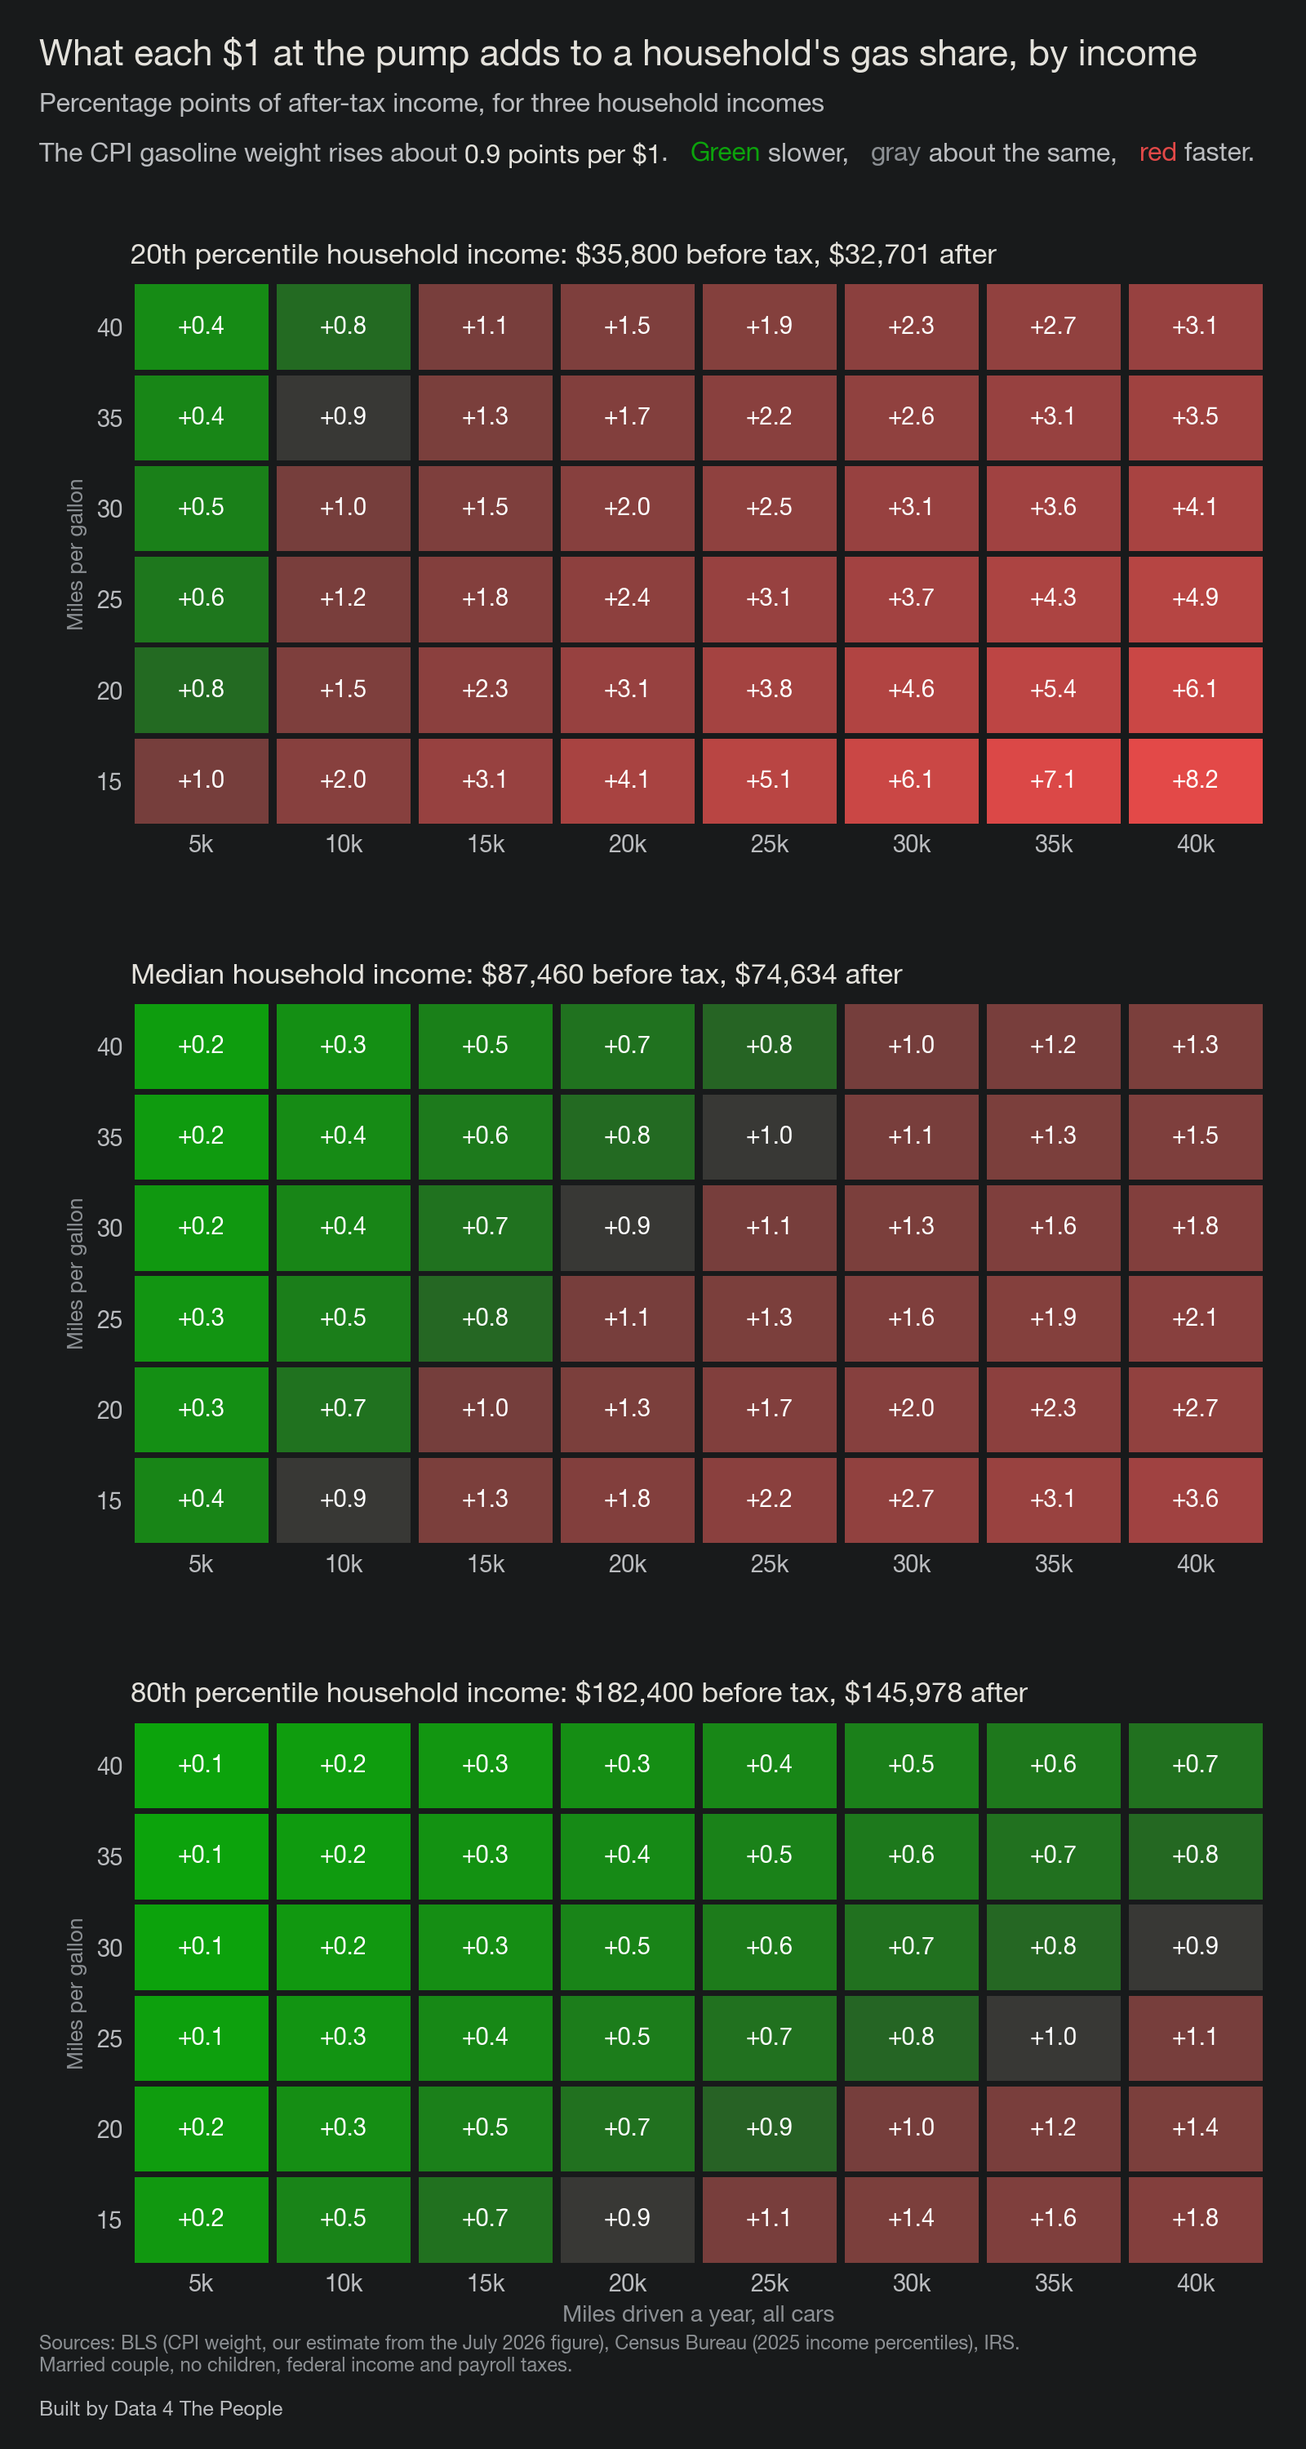
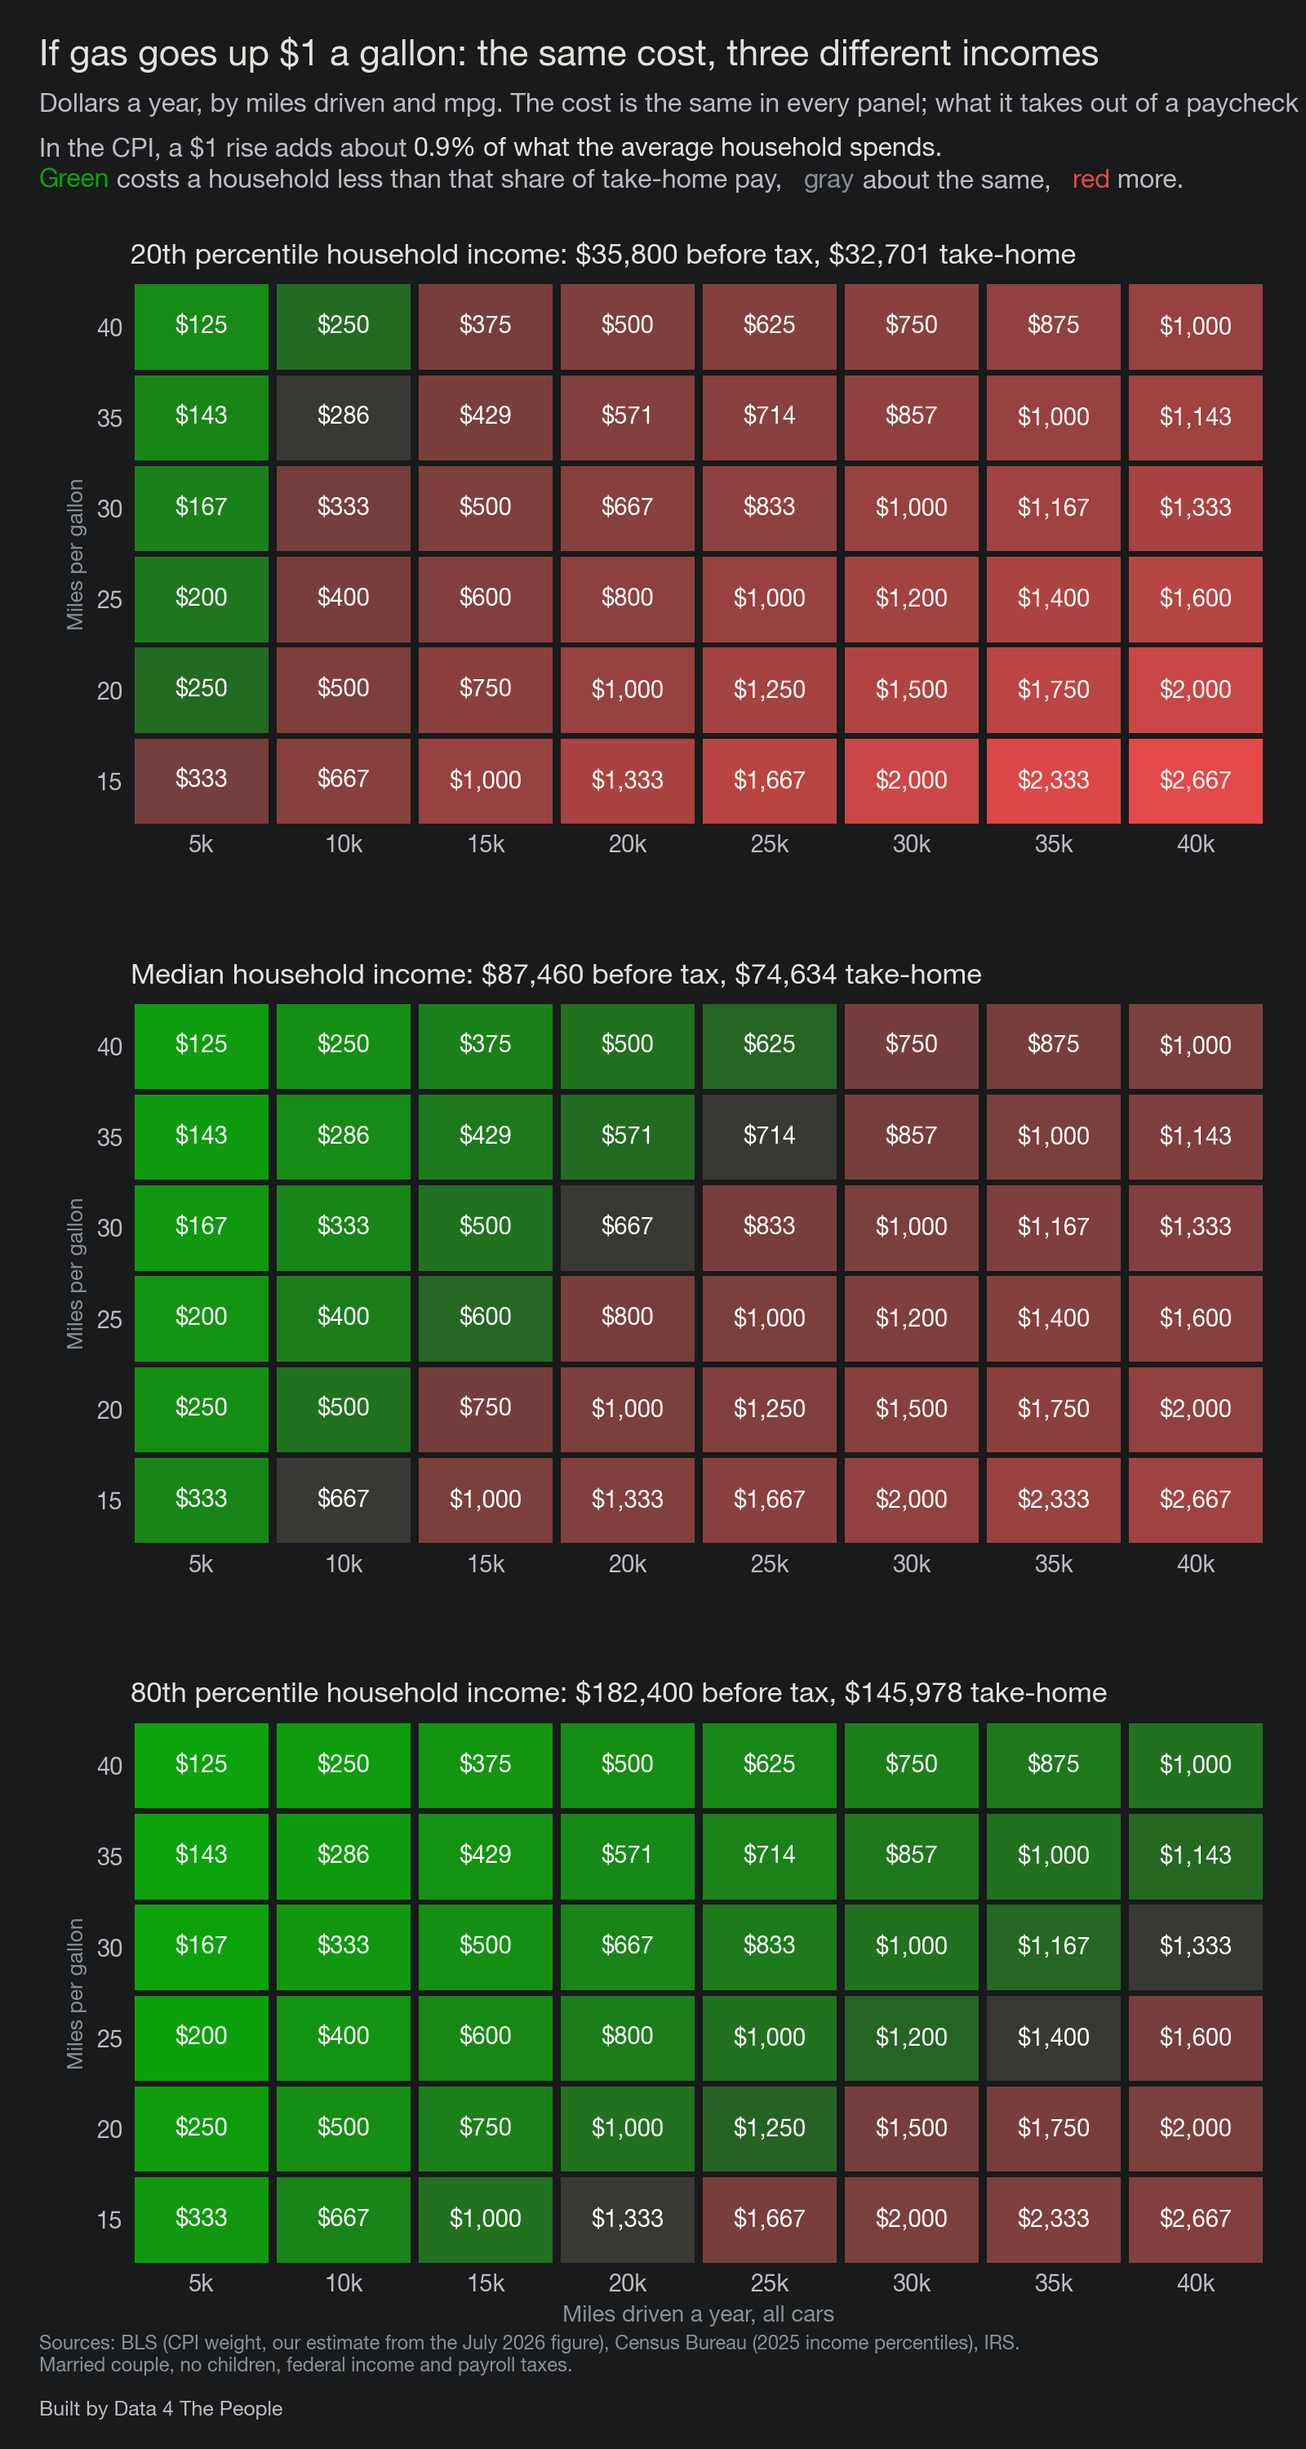
gasoline-cost: matrix in dollars a year, plain-language comparison to the CPI

diff --git a/dist/embed.html b/dist/embed.html
@@ -418,10 +418,11 @@ function drawMatrix(){
   var NEU = hexRgb(cst.getPropertyValue("--mNeu")), GOOD = hexRgb(cst.getPropertyValue("--mGood")), BAD = hexRgb(cst.getPropertyValue("--mBad"));
   var top = 100 * 40000 / 15 / 35000;      /* one fixed scale, so colors compare across incomes */
   var mi = nearestIdx(MX_MILES, h.miles), gi = nearestIdx(MX_MPG, h.mpg);
-  var html = "<h2>What each $1 a gallon adds, at this income</h2>" +
-    "<p class='intro'>Points of after-tax income added by each $1 rise, for any mix of miles and mpg, at " + esc(h.name.toLowerCase() === "your household" ? "your" : "the " + h.name.toLowerCase() + "'s") +
-    " income (" + money(h.at) + " after federal taxes). The CPI gasoline weight rises about <b>" + cs.toFixed(1) + " points</b> per $1.</p>" +
-    "<div class='legend'><span><b style='color:var(--mGood)'>Green</b> slower than the CPI</span><span><b style='color:var(--muted)'>Gray</b> about the same</span><span><b style='color:var(--mBad)'>Red</b> faster</span><span><b>Outlined</b>: closest to this household</span></div>" +
+  var whose = h.name.toLowerCase() === "your household" ? "your" : "the " + h.name.toLowerCase() + "'s";
+  var html = "<h2>If gas goes up $1 a gallon</h2>" +
+    "<p class='intro'>What a $1 rise costs a year, for any mix of miles and mpg, next to " + esc(whose) + " take-home pay of " + money(h.at) +
+    ". In the CPI, a $1 rise adds about <b>" + cs.toFixed(1) + "% of what the average household spends</b>. Colors show whether it costs this household more or less than that share.</p>" +
+    "<div class='legend'><span><b style='color:var(--mGood)'>Green</b> under " + cs.toFixed(1) + "% of take-home pay</span><span><b style='color:var(--muted)'>Gray</b> about " + cs.toFixed(1) + "%</span><span><b style='color:var(--mBad)'>Red</b> over " + cs.toFixed(1) + "%</span><span><b>Outlined</b>: closest to this household</span></div>" +
     "<div class='mx' role='table' aria-label='Points of after-tax income added by each $1 a gallon'><div class='h'>mpg</div>";
   MX_MILES.forEach(function(m){ html += "<div class='h'>" + (m / 1000) + "k</div>"; });
   MX_MPG.forEach(function(g, i){
@@ -432,9 +433,12 @@ function drawMatrix(){
       else if (v < cs) c = mixRgb(NEU, GOOD, 0.35 + 0.65 * Math.min(1, (cs - v) / (cs - 0.1)));
       else c = mixRgb(NEU, BAD, 0.35 + 0.65 * Math.min(1, (v - cs) / (top - cs)));
       var ink = lumRgb(c) > 0.28 ? "#0b0b0b" : "#ffffff";
-      var word = Math.abs(v - cs) <= MX_BAND ? "about the same as" : v < cs ? "slower than" : "faster than";
+      var word = Math.abs(v - cs) <= MX_BAND ? "about the same as" : v < cs ? "less than" : "more than";
+      var gal = m / g;
       html += "<div class='c" + (i === gi && j === mi ? " me" : "") + "' style='background:rgb(" + c.join(",") + ");color:" + ink + "' data-tip='" +
-        esc(m.toLocaleString("en-US") + " miles at " + g + " mpg: each $1 a gallon adds " + v.toFixed(2) + " points of after-tax income, " + word + " the CPI weight (" + cs.toFixed(2) + ")") + "'>+" + v.toFixed(1) + "</div>";
+        esc(m.toLocaleString("en-US") + " miles a year at " + g + " mpg is " + Math.round(gal).toLocaleString("en-US") + " gallons of gas. If the price goes up $1 a gallon, that costs " +
+            money(gal) + " more a year, or " + v.toFixed(1) + "% of take-home pay. That is " + word + " the " + cs.toFixed(1) + "% the CPI puts on the average household.") +
+        "'>" + money(gal) + "</div>";
     });
   });
   html += "</div><div class='axisl'>Miles driven a year, all cars</div>";

diff --git a/dist/index.html b/dist/index.html
@@ -418,10 +418,11 @@ function drawMatrix(){
   var NEU = hexRgb(cst.getPropertyValue("--mNeu")), GOOD = hexRgb(cst.getPropertyValue("--mGood")), BAD = hexRgb(cst.getPropertyValue("--mBad"));
   var top = 100 * 40000 / 15 / 35000;      /* one fixed scale, so colors compare across incomes */
   var mi = nearestIdx(MX_MILES, h.miles), gi = nearestIdx(MX_MPG, h.mpg);
-  var html = "<h2>What each $1 a gallon adds, at this income</h2>" +
-    "<p class='intro'>Points of after-tax income added by each $1 rise, for any mix of miles and mpg, at " + esc(h.name.toLowerCase() === "your household" ? "your" : "the " + h.name.toLowerCase() + "'s") +
-    " income (" + money(h.at) + " after federal taxes). The CPI gasoline weight rises about <b>" + cs.toFixed(1) + " points</b> per $1.</p>" +
-    "<div class='legend'><span><b style='color:var(--mGood)'>Green</b> slower than the CPI</span><span><b style='color:var(--muted)'>Gray</b> about the same</span><span><b style='color:var(--mBad)'>Red</b> faster</span><span><b>Outlined</b>: closest to this household</span></div>" +
+  var whose = h.name.toLowerCase() === "your household" ? "your" : "the " + h.name.toLowerCase() + "'s";
+  var html = "<h2>If gas goes up $1 a gallon</h2>" +
+    "<p class='intro'>What a $1 rise costs a year, for any mix of miles and mpg, next to " + esc(whose) + " take-home pay of " + money(h.at) +
+    ". In the CPI, a $1 rise adds about <b>" + cs.toFixed(1) + "% of what the average household spends</b>. Colors show whether it costs this household more or less than that share.</p>" +
+    "<div class='legend'><span><b style='color:var(--mGood)'>Green</b> under " + cs.toFixed(1) + "% of take-home pay</span><span><b style='color:var(--muted)'>Gray</b> about " + cs.toFixed(1) + "%</span><span><b style='color:var(--mBad)'>Red</b> over " + cs.toFixed(1) + "%</span><span><b>Outlined</b>: closest to this household</span></div>" +
     "<div class='mx' role='table' aria-label='Points of after-tax income added by each $1 a gallon'><div class='h'>mpg</div>";
   MX_MILES.forEach(function(m){ html += "<div class='h'>" + (m / 1000) + "k</div>"; });
   MX_MPG.forEach(function(g, i){
@@ -432,9 +433,12 @@ function drawMatrix(){
       else if (v < cs) c = mixRgb(NEU, GOOD, 0.35 + 0.65 * Math.min(1, (cs - v) / (cs - 0.1)));
       else c = mixRgb(NEU, BAD, 0.35 + 0.65 * Math.min(1, (v - cs) / (top - cs)));
       var ink = lumRgb(c) > 0.28 ? "#0b0b0b" : "#ffffff";
-      var word = Math.abs(v - cs) <= MX_BAND ? "about the same as" : v < cs ? "slower than" : "faster than";
+      var word = Math.abs(v - cs) <= MX_BAND ? "about the same as" : v < cs ? "less than" : "more than";
+      var gal = m / g;
       html += "<div class='c" + (i === gi && j === mi ? " me" : "") + "' style='background:rgb(" + c.join(",") + ");color:" + ink + "' data-tip='" +
-        esc(m.toLocaleString("en-US") + " miles at " + g + " mpg: each $1 a gallon adds " + v.toFixed(2) + " points of after-tax income, " + word + " the CPI weight (" + cs.toFixed(2) + ")") + "'>+" + v.toFixed(1) + "</div>";
+        esc(m.toLocaleString("en-US") + " miles a year at " + g + " mpg is " + Math.round(gal).toLocaleString("en-US") + " gallons of gas. If the price goes up $1 a gallon, that costs " +
+            money(gal) + " more a year, or " + v.toFixed(1) + "% of take-home pay. That is " + word + " the " + cs.toFixed(1) + "% the CPI puts on the average household.") +
+        "'>" + money(gal) + "</div>";
     });
   });
   html += "</div><div class='axisl'>Miles driven a year, all cars</div>";

diff --git a/src/template.html b/src/template.html
@@ -418,10 +418,11 @@ function drawMatrix(){
   var NEU = hexRgb(cst.getPropertyValue("--mNeu")), GOOD = hexRgb(cst.getPropertyValue("--mGood")), BAD = hexRgb(cst.getPropertyValue("--mBad"));
   var top = 100 * 40000 / 15 / 35000;      /* one fixed scale, so colors compare across incomes */
   var mi = nearestIdx(MX_MILES, h.miles), gi = nearestIdx(MX_MPG, h.mpg);
-  var html = "<h2>What each $1 a gallon adds, at this income</h2>" +
-    "<p class='intro'>Points of after-tax income added by each $1 rise, for any mix of miles and mpg, at " + esc(h.name.toLowerCase() === "your household" ? "your" : "the " + h.name.toLowerCase() + "'s") +
-    " income (" + money(h.at) + " after federal taxes). The CPI gasoline weight rises about <b>" + cs.toFixed(1) + " points</b> per $1.</p>" +
-    "<div class='legend'><span><b style='color:var(--mGood)'>Green</b> slower than the CPI</span><span><b style='color:var(--muted)'>Gray</b> about the same</span><span><b style='color:var(--mBad)'>Red</b> faster</span><span><b>Outlined</b>: closest to this household</span></div>" +
+  var whose = h.name.toLowerCase() === "your household" ? "your" : "the " + h.name.toLowerCase() + "'s";
+  var html = "<h2>If gas goes up $1 a gallon</h2>" +
+    "<p class='intro'>What a $1 rise costs a year, for any mix of miles and mpg, next to " + esc(whose) + " take-home pay of " + money(h.at) +
+    ". In the CPI, a $1 rise adds about <b>" + cs.toFixed(1) + "% of what the average household spends</b>. Colors show whether it costs this household more or less than that share.</p>" +
+    "<div class='legend'><span><b style='color:var(--mGood)'>Green</b> under " + cs.toFixed(1) + "% of take-home pay</span><span><b style='color:var(--muted)'>Gray</b> about " + cs.toFixed(1) + "%</span><span><b style='color:var(--mBad)'>Red</b> over " + cs.toFixed(1) + "%</span><span><b>Outlined</b>: closest to this household</span></div>" +
     "<div class='mx' role='table' aria-label='Points of after-tax income added by each $1 a gallon'><div class='h'>mpg</div>";
   MX_MILES.forEach(function(m){ html += "<div class='h'>" + (m / 1000) + "k</div>"; });
   MX_MPG.forEach(function(g, i){
@@ -432,9 +433,12 @@ function drawMatrix(){
       else if (v < cs) c = mixRgb(NEU, GOOD, 0.35 + 0.65 * Math.min(1, (cs - v) / (cs - 0.1)));
       else c = mixRgb(NEU, BAD, 0.35 + 0.65 * Math.min(1, (v - cs) / (top - cs)));
       var ink = lumRgb(c) > 0.28 ? "#0b0b0b" : "#ffffff";
-      var word = Math.abs(v - cs) <= MX_BAND ? "about the same as" : v < cs ? "slower than" : "faster than";
+      var word = Math.abs(v - cs) <= MX_BAND ? "about the same as" : v < cs ? "less than" : "more than";
+      var gal = m / g;
       html += "<div class='c" + (i === gi && j === mi ? " me" : "") + "' style='background:rgb(" + c.join(",") + ");color:" + ink + "' data-tip='" +
-        esc(m.toLocaleString("en-US") + " miles at " + g + " mpg: each $1 a gallon adds " + v.toFixed(2) + " points of after-tax income, " + word + " the CPI weight (" + cs.toFixed(2) + ")") + "'>+" + v.toFixed(1) + "</div>";
+        esc(m.toLocaleString("en-US") + " miles a year at " + g + " mpg is " + Math.round(gal).toLocaleString("en-US") + " gallons of gas. If the price goes up $1 a gallon, that costs " +
+            money(gal) + " more a year, or " + v.toFixed(1) + "% of take-home pay. That is " + word + " the " + cs.toFixed(1) + "% the CPI puts on the average household.") +
+        "'>" + money(gal) + "</div>";
     });
   });
   html += "</div><div class='axisl'>Miles driven a year, all cars</div>";

diff --git a/src/charts.py b/src/charts.py
@@ -165,7 +165,7 @@ def draw_matrix(ax, inc, cs, fs=11):
             v = 100 * mi / g / inc
             col = cell_color(v, cs, inc)
             ax.add_patch(plt.Rectangle((j + 0.03, i + 0.03), 0.94, 0.94, color=col, lw=0))
-            ax.text(j + 0.5, i + 0.5, f'+{v:.1f}', ha='center', va='center', fontsize=fs, fontweight='bold',
+            ax.text(j + 0.5, i + 0.5, f'\\${mi / g:,.0f}', ha='center', va='center', fontsize=fs, fontweight='bold',
                     color='#0b0b0b' if lum(col) > 0.28 else '#ffffff')
     ax.set_xlim(0, len(MILES)); ax.set_ylim(len(MPGS), 0)
     ax.set_xticks([j + 0.5 for j in range(len(MILES))], [f'{mi // 1000}k' for mi in MILES])
@@ -173,10 +173,11 @@ def draw_matrix(ax, inc, cs, fs=11):
     ax.tick_params(axis='both', labelcolor=INK2, labelsize=10.5)
 
 
-def legend_line(f, y, cs):
-    colored_line(f, 0.03, y, [('The CPI gasoline weight rises about ', INK2, False), (f'{cs:.1f} points per $1', INK, True),
-                              ('.   ', INK2, False), ('Green', GREEN, True), (' slower,   ', INK2, False),
-                              ('gray', '#8C9094', True), (' about the same,   ', INK2, False), ('red', RED, True), (' faster.', INK2, False)])
+def legend_line(f, y, cs, gap=0.028):
+    colored_line(f, 0.03, y, [('In the CPI, a $1 rise adds about ', INK2, False),
+                              (f'{cs:.1f}% of what the average household spends.', INK, True)])
+    colored_line(f, 0.03, y - gap, [('Green', GREEN, True), (' costs a household less than that share of take-home pay,   ', INK2, False),
+                                    ('gray', '#8C9094', True), (' about the same,   ', INK2, False), ('red', RED, True), (' more.', INK2, False)])
 
 
 def chart_matrix(m):
@@ -189,9 +190,9 @@ def chart_matrix(m):
     ax.set_xlabel('Miles driven a year, all cars', color=MUTED, fontsize=10)
     ax.set_ylabel('Average miles per gallon', color=MUTED, fontsize=10)
     f.subplots_adjust(left=0.1, right=0.97, top=0.76, bottom=0.18)
-    title(f, 'What each $1 at the pump adds to a household\'s gas share',
-          f'Percentage points of after-tax income, at the median household\'s ${inc:,.0f} after federal taxes')
-    legend_line(f, 0.845, cs)
+    title(f, 'If gas goes up $1 a gallon, what it costs a year',
+          f'Dollars a year, by miles driven and mpg, next to the median household\'s take-home pay of \\${inc:,.0f}')
+    legend_line(f, 0.855, cs)
     foot(f, 'Sources: BLS (CPI weight, our estimate from the July 2026 figure), Census Bureau, IRS. Married couple, no children.')
     f.savefig(OUT / '04-slope-matrix.png', facecolor=BG); plt.close(f)
 
@@ -211,14 +212,14 @@ def chart_matrix_income(m):
         ax.tick_params(length=0)
         inc = after_tax('mfj', pre)['after_tax']
         draw_matrix(ax, inc, cs, fs=10.5)
-        ax.set_title(f'{lab} household income: \\${pre:,} before tax, \\${inc:,.0f} after', loc='left', color=INK, fontsize=12.5,
+        ax.set_title(f'{lab} household income: \\${pre:,} before tax, \\${inc:,.0f} take-home', loc='left', color=INK, fontsize=12.5,
                      fontweight='bold', pad=8)
         ax.set_ylabel('Miles per gallon', color=MUTED, fontsize=9.5)
     axes[-1].set_xlabel('Miles driven a year, all cars', color=MUTED, fontsize=10)
     f.subplots_adjust(left=0.1, right=0.97, top=0.885, bottom=0.075, hspace=0.32)
-    f.text(0.03, 0.985, 'What each $1 at the pump adds to a household\'s gas share, by income', fontsize=16, fontweight='bold', color=INK, va='top')
-    f.text(0.03, 0.962, 'Percentage points of after-tax income, for three household incomes', fontsize=11.5, color=INK2, va='top')
-    legend_line(f, 0.942, cs)
+    f.text(0.03, 0.985, 'If gas goes up $1 a gallon: the same cost, three different incomes', fontsize=16, fontweight='bold', color=INK, va='top')
+    f.text(0.03, 0.962, 'Dollars a year, by miles driven and mpg. The cost is the same in every panel; what it takes out of a paycheck is not.', fontsize=11.5, color=INK2, va='top')
+    legend_line(f, 0.944, cs, gap=0.013)
     f.text(0.03, 0.03, 'Sources: BLS (CPI weight, our estimate from the July 2026 figure), Census Bureau (2025 income percentiles), IRS.\nMarried couple, no children, federal income and payroll taxes.', fontsize=8.5, color=MUTED, va='bottom')
     f.text(0.03, 0.012, CREDIT, fontsize=9, color=INK2, va='bottom', fontweight='bold')
     f.savefig(OUT / '05-slope-matrix-by-income.png', facecolor=BG); plt.close(f)
